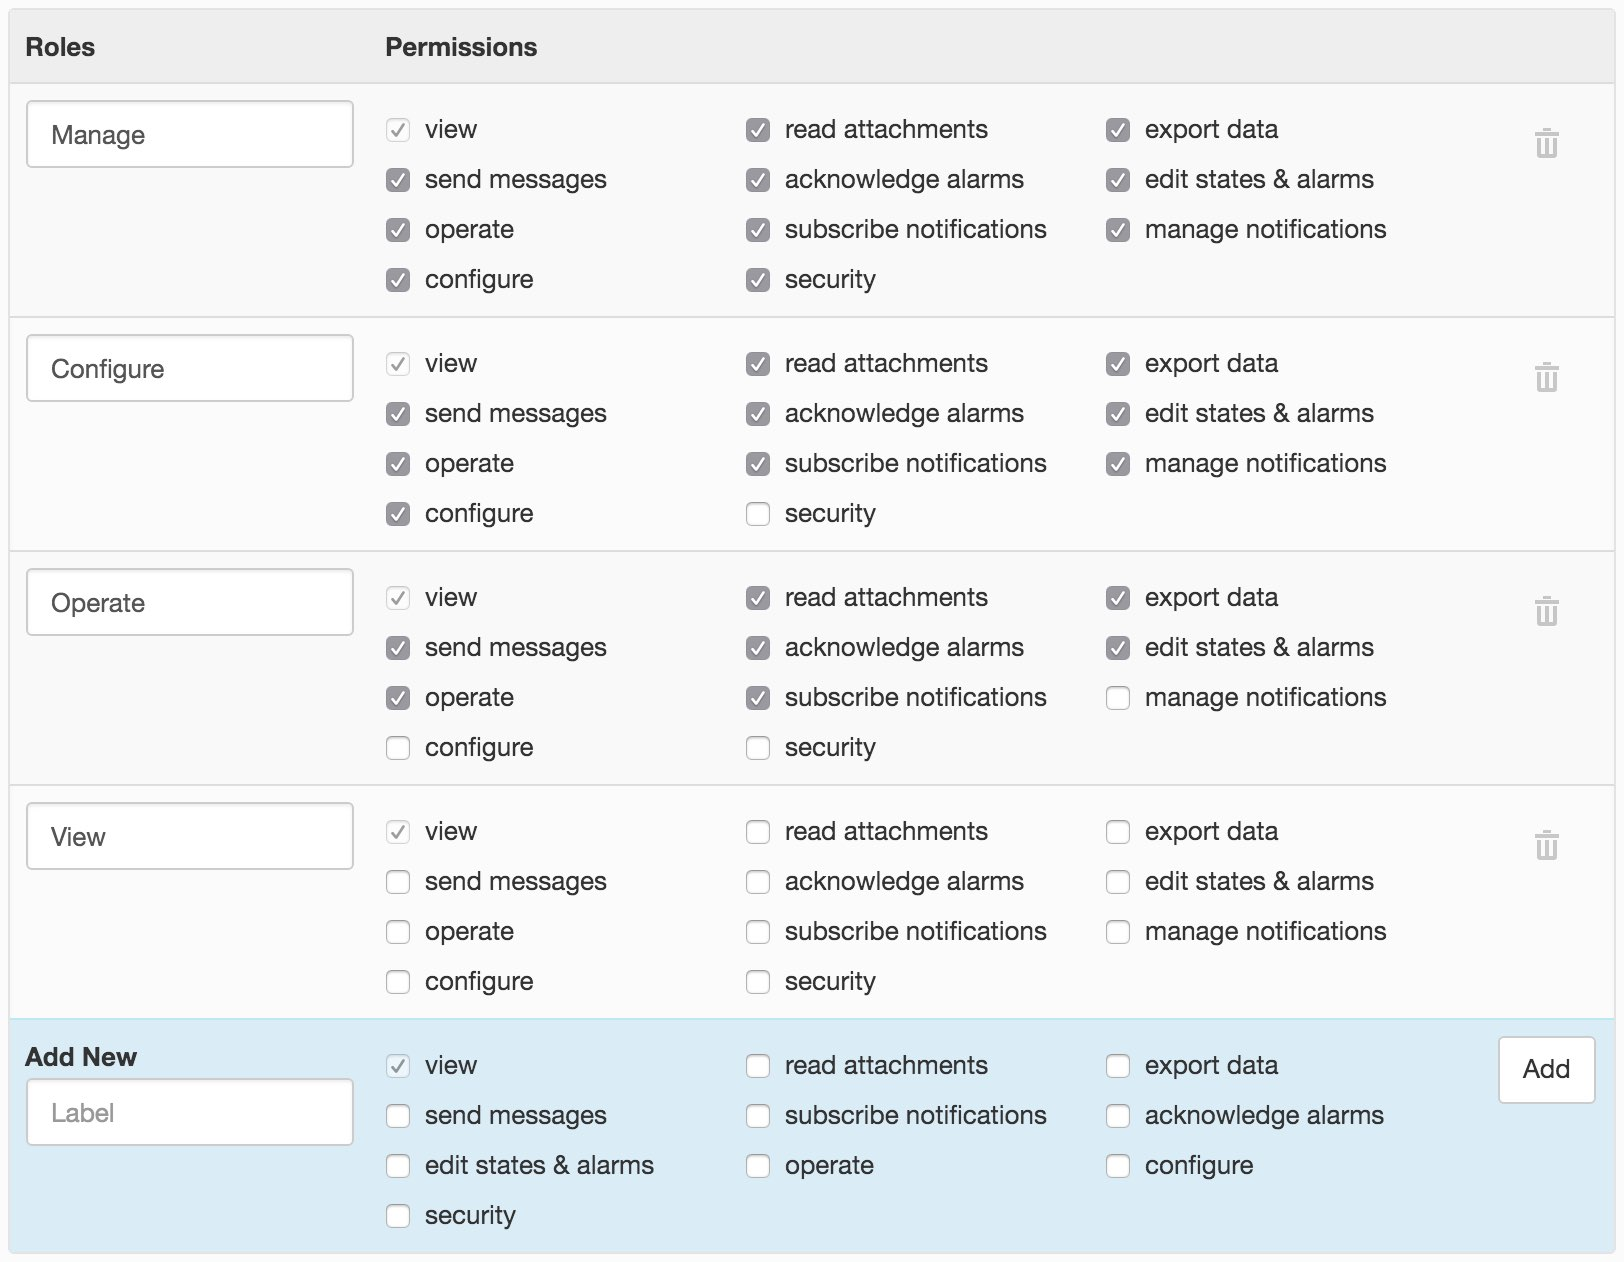
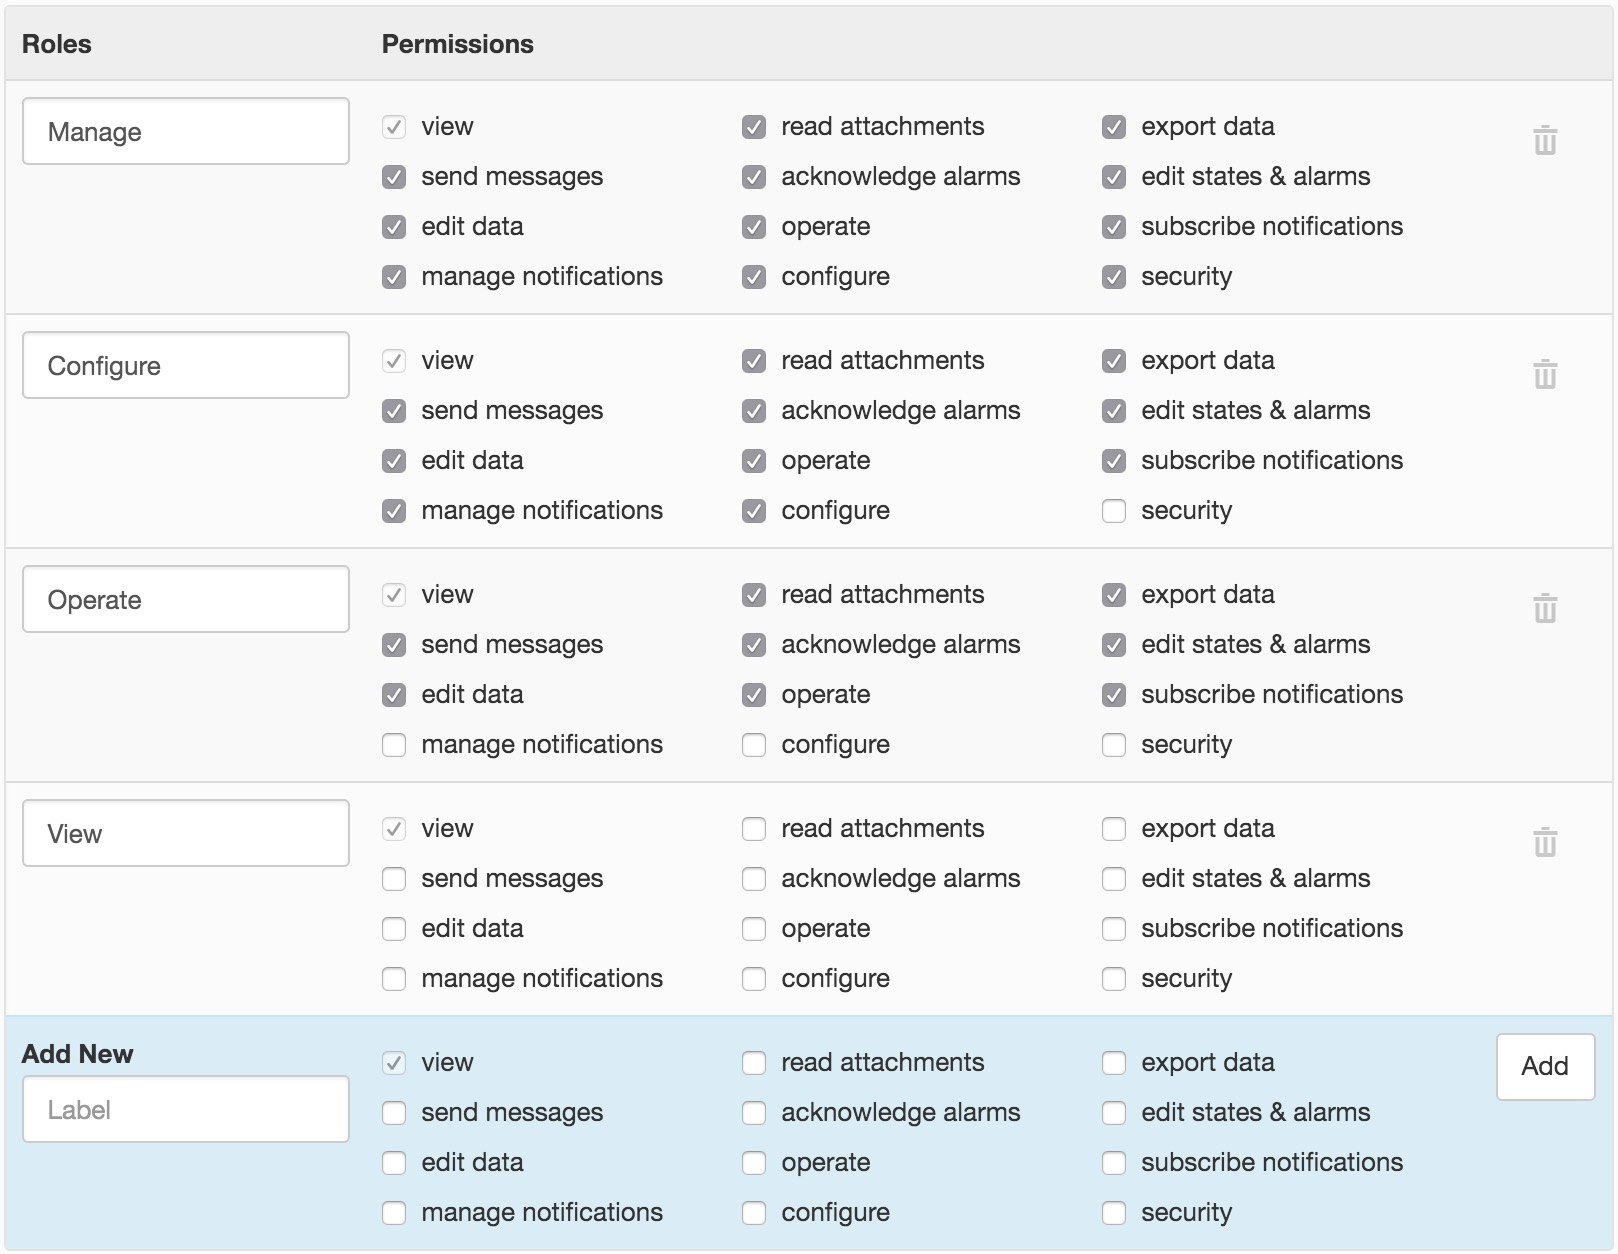
add EDIT_DATA security role

diff --git a/source/topics/account_settings/security/index.rst b/source/topics/account_settings/security/index.rst
@@ -128,6 +128,9 @@ Acknowledge alarms
 Edit states & alarms
 	Configure Node states and alarms, or Clear alarms.
 
+Edit data
+	Modify timeseries data values, quality and annotations.
+
 Operate
 	User can Acquire and Control Datasources and Parameters.
 
